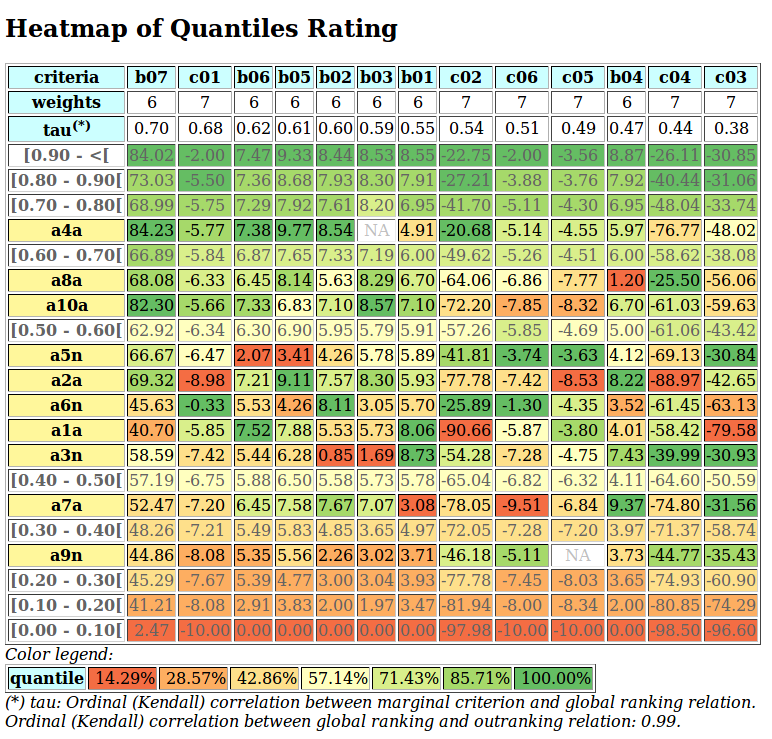
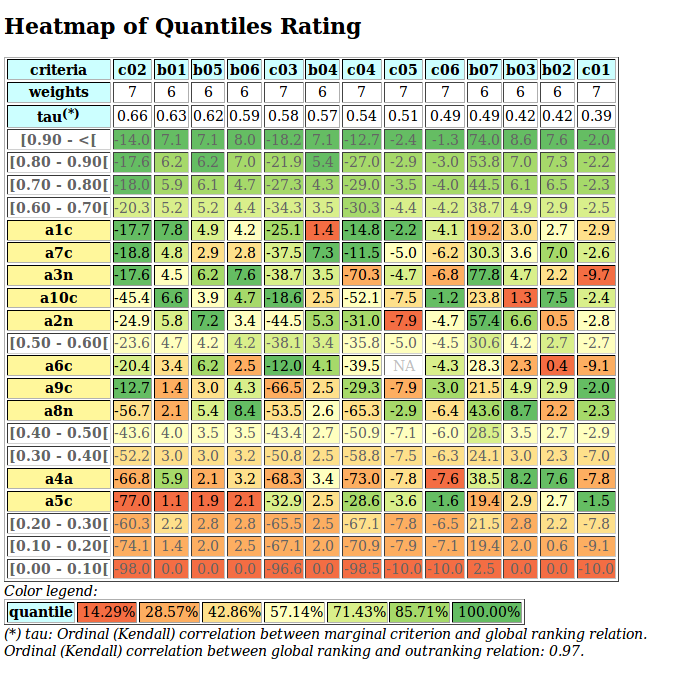
added performaceQuantiles module
git-svn-id: http://leopold-loewenheim.uni.lu/svn/repos/Digraph3@2334 1edaa99d-39e4-4cdb-8da2-0a4aeb6909dc

diff --git a/sortingDigraphs.py b/sortingDigraphs.py
@@ -5273,11 +5273,12 @@ class NormedQuantilesRatingDigraph(SortingDigraph,PerformanceQuantiles):
         >>> from randomPerfTabs import RandomCBPerformanceTableau
         >>> nbrActions=1000
         >>> nbrCrit = 13
-        >>> tp = RandomCBPerformanceTableau(numberOfActions=nbrActions,numberOfCriteria=nbrCrit,seed=None)
+        >>> seed = 100
+        >>> tp = RandomCBPerformanceTableau(numberOfActions=nbrActions,numberOfCriteria=nbrCrit,seed=seed)
         >>> pq = PerformanceQuantiles(tp,numberOfBins='deciles',LowerClosed=True,Debug=False)
         >>> # new incoming decision actions of the same kind
         >>> from randomPerfTabs import RandomCBPerformanceGenerator as PerfTabGenerator
-        >>> tpg = PerfTabGenerator(tp,instanceCounter=0,seed=105)
+        >>> tpg = PerfTabGenerator(tp,instanceCounter=0,seed=seed)
         >>> newActions = []
         >>> for i in range(10):
         ...     newAction = tpg.randomAction()
@@ -5285,51 +5286,13 @@ class NormedQuantilesRatingDigraph(SortingDigraph,PerformanceQuantiles):
         >>> # rating the new set of decision actions after
         >>> # updating the historical performance quantiles
         >>> pq.updateQuantiles(newActions,historySize=None)
-        >>> ird = IncrementalRatingDigraph(pq,newActions,CompleteOutranking=True,Debug=True)
+        >>> neq = NormeQuantilesRatingDigraph(pq,newActions,Debug=True)
         >>> # inspecting the rating result
-        >>> ird.showActionsSortingResult()
-          Quantiles sorting result per decision action
-          [0.40 - 0.50[: a1 with credibility: 0.07 = min(0.10,0.07)
-          [0.50 - 0.60[: a2 with credibility: 0.14 = min(0.17,0.14)
-          [0.40 - 0.50[: a3 with credibility: 0.10 = min(0.10,0.14)
-          [0.60 - 0.70[: a4 with credibility: 0.14 = min(0.14,0.19)
-          [0.40 - 0.50[: a5 with credibility: 0.19 = min(0.40,0.19)
-          [0.30 - 0.40[: a6 with credibility: 0.02 = min(0.33,0.02)
-          [0.30 - 0.40[: a7 with credibility: 0.12 = min(0.44,0.12)
-          [0.50 - 0.60[: a8 with credibility: 0.05 = min(0.05,0.26)
-          [0.20 - 0.30[: a9 with credibility: 0.18 = min(0.18,0.18)
-          [0.50 - 0.60[: a10 with credibility: 0.04 = min(0.19,0.04)
-        >>> ird.showSorting()
-          [0.90 - <[: 	 []
-          [0.80 - 0.90[: 	 []
-          [0.70 - 0.80[: 	 []
-          [0.60 - 0.70[: 	 ['a4']
-          [0.50 - 0.60[: 	 ['a10', 'a2', 'a8']
-          [0.40 - 0.50[: 	 ['a1', 'a3', 'a5']
-          [0.30 - 0.40[: 	 ['a6', 'a7']
-          [0.20 - 0.30[: 	 ['a9']
-          [0.10 - 0.20[: 	 []
-          [0.00 - 0.10[: 	 []    
-        >>> ird.showQuantileOrdering()
-          [0.60-0.70[ : ['a4']
-          [0.50-0.60[ : ['a10', 'a8', 'a2']
-          [0.40-0.50[ : ['a1', 'a5', 'a3']
-          [0.30-0.40[ : ['a6', 'a7']
-          [0.20-0.30[ : ['a9']
-        >>> ird.showOrderedRelationTable()
-          * ---- Relation Table -----
-          xRy |  'a4'	'a10'	 'a2'	 'a8'	 'a1'	 'a3'	 'a5'	 'a6'	 'a7'	 'a9'	  
-         -----|--------------------------------------------------------------------------------
-         'a4' |   - 	 0.31	 0.48	 0.62	 0.31	 0.31	 0.12	 0.12	 0.62	 0.35	 
-         'a10'|  -0.17	  - 	 0.24	 0.11	 0.15	-0.12	 0.33	 0.19	 0.24	 0.25	 
-         'a2' |  -0.48	-0.24	  - 	 0.02	 0.05	-0.14	 0.00	 0.02	 0.05	 0.08	 
-         'a8' |  -0.62	-0.02	 0.12	  - 	 0.07	 0.21	 0.19	 0.05	 0.38	 0.27	 
-         'a1' |  -0.31	-0.07	-0.05	-0.07	  - 	 0.07	-0.10	 0.05	 0.10	 0.18	 
-         'a3' |  -0.31	 0.12	 0.14	-0.21	-0.07	  - 	-0.10	-0.10	 0.12	 0.30	 
-         'a5' |  -0.12	-0.33	 0.07	-0.05	 0.10	 0.26	  - 	-0.10	 0.29	 0.46	 
-         'a6' |  -0.12	 0.06	-0.02	-0.05	 0.04	 0.10	 0.10	  - 	 0.12	 0.30	 
-         'a7' |  -0.45	-0.24	 0.12	-0.24	-0.10	 0.05	-0.12	-0.12	  - 	 0.27	 
-         'a9' |  -0.35	-0.25	-0.08	-0.27	-0.11	-0.30	-0.46	-0.15	-0.19	  - 	 
+        >>> nrq.showQuantilesRating()
+         *-------- Normed quantiles rating result ---------
+         [0.50 - 0.60[ ['a1', 'a7', 'a3', 'a10', 'a2']
+         [0.40 - 0.50[ ['a6', 'a9', 'a8']
+         [0.20 - 0.30[ ['a4', 'a5']
         >>> ird.showHTMLPerformanceHeatmap(pageTitle='Heatmap of Quantiles Rating',Correlations=True)
 
     .. image:: exampleIncRatDigraph.png
@@ -5784,7 +5747,7 @@ class NormedQuantilesRatingDigraph(SortingDigraph,PerformanceQuantiles):
         html += '</body></html>'
         return html
 
-    def computeQuantileSorting(self,Debug=True):
+    def computeQuantilesRating(self,Debug=True):
         """
           Renders an ordered dictionary of non empty quantiles in ascending order.
         """
@@ -5802,16 +5765,16 @@ class NormedQuantilesRatingDigraph(SortingDigraph,PerformanceQuantiles):
                     quantileCategories[ranking[c]] = [ranking[i]]
                     New = False
                 else:
-                    quantileCategories[ranking[c]].append(ranking[i])
+                    quantileCategories[ranking[c]].insert(0,ranking[i])
             else:
                 New = True
         if Debug:
             print(quantileCategories)
         return quantileCategories
 
-    def showQuantileSorting(self,Descending=True,Debug=True):
-        quantileCategories = self.computeQuantileSorting(Debug=Debug)
-        print('*-------- Quantile sorting result ---------')
+    def showQuantilesRating(self,Descending=True,Debug=True):
+        quantileCategories = self.computeQuantilesRating(Debug=Debug)
+        print('*-------- Normed quantiles rating result ---------')
         if Descending:
             for cat in reversed(quantileCategories):
                 c = self.profiles[cat]['category']
@@ -6399,18 +6362,18 @@ if __name__ == "__main__":
 ##    print(g.computeOrdinalCorrelation(qsrbc))
     
     # test incremental rating agent
-##    from randomPerfTabs import RandomCBPerformanceTableau
-##    from randomPerfTabs import RandomCBPerformanceGenerator as PerfTabGenerator
-##    nbrActions=1000
-##    nbrCrit = 13
-##    tp = RandomCBPerformanceTableau(numberOfActions=nbrActions,\
-##                                    numberOfCriteria=nbrCrit,seed=105)
-    from randomPerfTabs import Random3ObjectivesPerformanceTableau
-    from randomPerfTabs import Random3ObjectivesPerformanceGenerator as PerfTabGenerator
+    from randomPerfTabs import RandomCBPerformanceTableau
+    from randomPerfTabs import RandomCBPerformanceGenerator as PerfTabGenerator
     nbrActions=1000
-    nbrCrit = 21
-    tp = Random3ObjectivesPerformanceTableau(numberOfActions=nbrActions,\
-                                    numberOfCriteria=nbrCrit,seed=100)
+    nbrCrit = 13
+    tp = RandomCBPerformanceTableau(numberOfActions=nbrActions,\
+                                    numberOfCriteria=nbrCrit,seed=105)
+##    from randomPerfTabs import Random3ObjectivesPerformanceTableau
+##    from randomPerfTabs import Random3ObjectivesPerformanceGenerator as PerfTabGenerator
+##    nbrActions=1000
+##    nbrCrit = 21
+##    tp = Random3ObjectivesPerformanceTableau(numberOfActions=nbrActions,\
+##                                    numberOfCriteria=nbrCrit,seed=100)
     pq = PerformanceQuantiles(tp,10,LowerClosed=True,Debug=False)
     tpg = PerfTabGenerator(tp,instanceCounter=0,seed=100)
     newActions = []
@@ -6420,7 +6383,7 @@ if __name__ == "__main__":
     pq.updateQuantiles(newActions,historySize=None)
     ira = NormedQuantilesRatingDigraph(pq,newActions,\
                                    Debug=True)
-    ira.showQuantileSorting()
+    ira.showQuantilesRating()
     #ira.showSorting()
     #ira.showHTMLSorting()
     #ira.showActionsSortingResult()
@@ -6428,7 +6391,7 @@ if __name__ == "__main__":
     #ira.showRefinedQuantileOrdering()
     #ira.showOrderedRelationTable()
     #ira.showSortingCharacteristics()
-    ira.showHTMLPerformanceHeatmap(pageTitle='Heat map of performances',Correlations=True)
+    ira.showHTMLPerformanceHeatmap(pageTitle='Heat map of quantiles rating',Correlations=True)
     print('*------------------*')
     print('If you see this line all tests were passed successfully :-)')
     print('Enjoy !')
